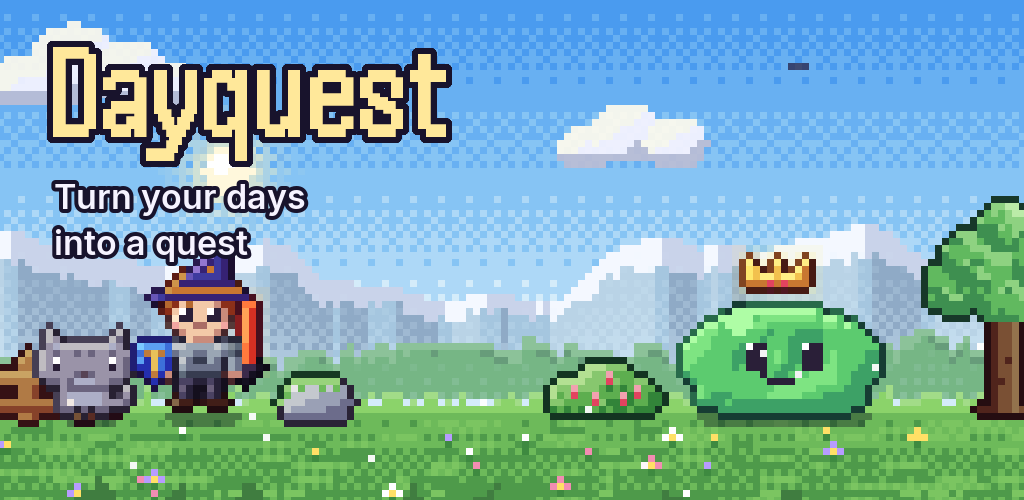
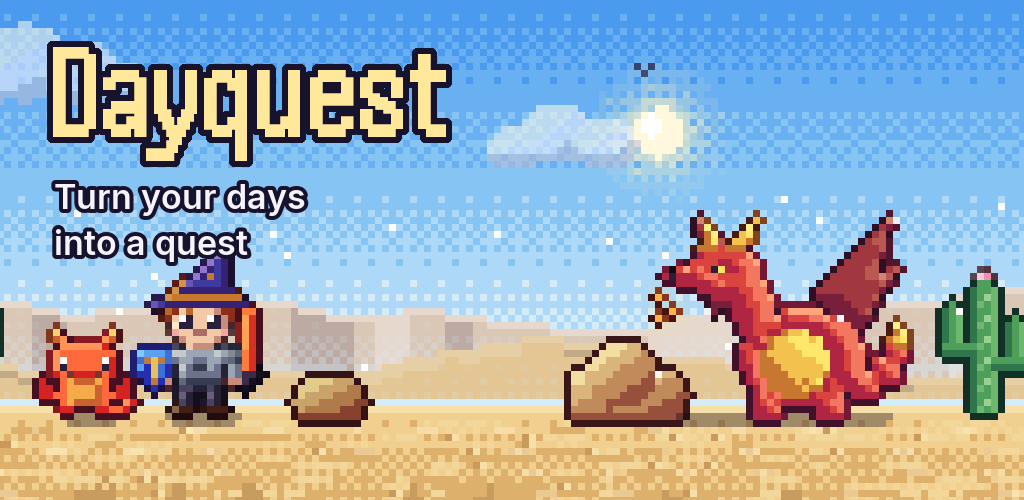
Google Play: the fire dragon on the feature graphic [skip ci]

diff --git a/tools/play.py b/tools/play.py
@@ -135,16 +135,16 @@ def icon() -> Image.Image:
 
 
 def scene(preview: Path) -> Image.Image:
-    """The meadow with the Slime King from scenes.png (14 scenes of 720x288, drawn at 4x)."""
+    """The desert with the fire dragon from scenes.png (14 scenes of 720x288, drawn at 4x)."""
     sheet = Image.open(preview / "scenes.png").convert("RGB")
     h = sheet.height // 14
-    return sheet.crop((0, 7 * h, sheet.width, 8 * h)).resize((180, 72), Image.NEAREST)
+    return sheet.crop((0, 5 * h, sheet.width, 6 * h)).resize((180, 72), Image.NEAREST)
 
 
 def feature(lang: str, sc: Image.Image) -> Image.Image:
     W, H = 1024, 500
     big = sc.resize((sc.width * 7, sc.height * 7), Image.NEAREST)  # 1260x504
-    g = big.crop((150, 0, 150 + W, H)).convert("RGBA")  # the hero on the left, the Slime King on the right
+    g = big.crop((150, 0, 150 + W, H)).convert("RGBA")  # the hero on the left, the dragon on the right
     d = ImageDraw.Draw(g)
     d.text((48, 18), "Dayquest", font=font("pixel_bold.ttf", 132), fill=GOLD, stroke_width=6, stroke_fill=NIGHT)
     sub = font("inter_semibold.ttf", 34)

diff --git a/docs/google-play/README.md b/docs/google-play/README.md
@@ -63,7 +63,7 @@ Habitica в текстах карточки не упоминается наме
 Скриншоты 1080×1920 собраны `tools/play.py` из снимков экрана демо-сборки на телефоне 1080×2340:
 Play не берёт картинки длиннее двух ширин, поэтому статус-бар и жестовая панель срезаются, а экран
 стоит карточкой под подписью на фиолетовом фоне значка. Значок 512 рисуется из `docs/logo.svg`,
-баннер — из сцены луга с Королём слизней, которую рендерит превью спрайтов. Как пересобрать:
+баннер — из сцены пустыни с огненным драконом, которую рендерит превью спрайтов. Как пересобрать:
 
 ```bash
 ./gradlew installDebug -Pdemo   # app.dayquest.demo с героем 21 уровня, рядом с настоящей установкой
